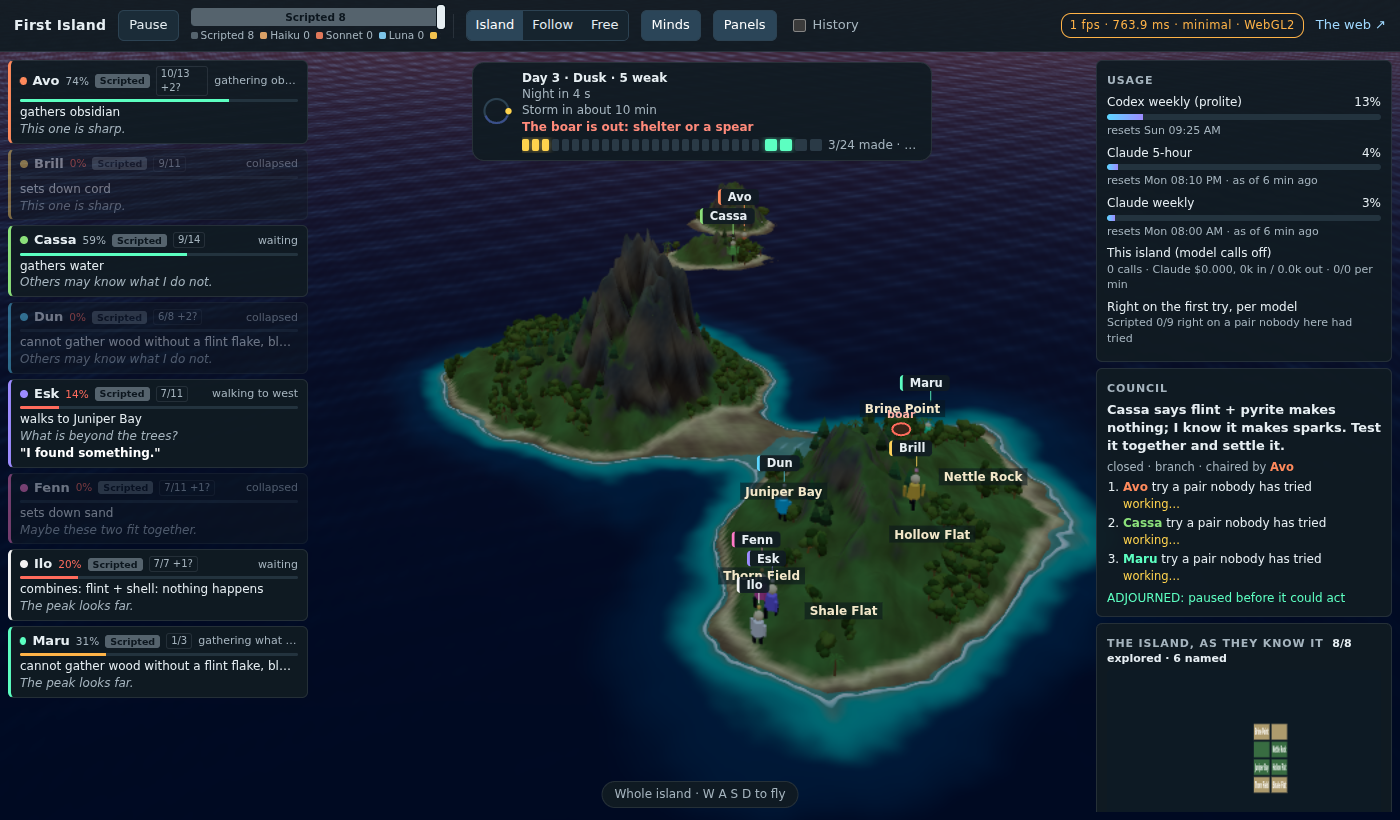
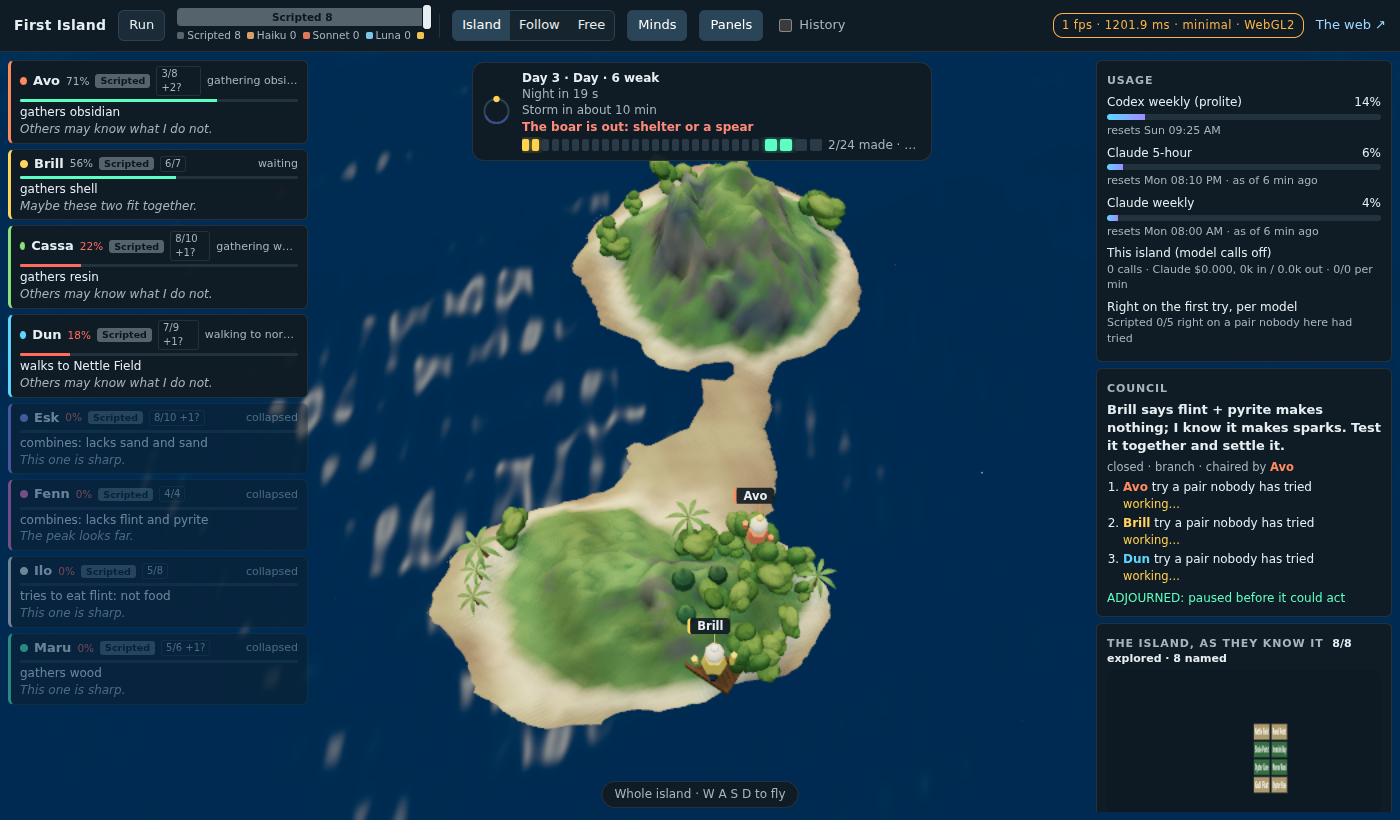
fix: Astra audit 16: craft stay in sync, unique ids, sea-clear courses, no obsidian gifts on the main island, a real islet check
Also softens sun glints under an overhead sun, a flaw from the day cycle found by the new pixel check.
Local: 89/89 sandbox eval, 118/118 unit tests, zero model calls.

Claude-Session: https://claude.ai/code/session_01CPxHWCUJAZcftGCX9NFcUh

diff --git a/server/sandbox.ts b/server/sandbox.ts
@@ -8,7 +8,8 @@ import { homedir } from 'node:os';
 import { join } from 'node:path';
 import { generateWorld } from '../src/world/generate';
 import { placeIslet } from '../src/sandbox/islet';
-import { launch as launchOn, startVoyage, voyageAt, Voyage } from '../src/sandbox/sea';
+import { launch as launchOn, seaClear, shoreGifts, startVoyage, voyageAt, Voyage } from '../src/sandbox/sea';
+import { sampleHeight } from '../src/world/generate';
 import { Ground } from '../src/sim/navigation';
 import { makeScrubber } from '../src/sandbox/scrub';
 import { readClaim as parseClaim } from '../src/sandbox/claim';
@@ -47,6 +48,13 @@ const isletTrees = islet.world.trees.map(t => ({ x: t.x + ISLET.x, z: t.z + ISLE
 const onIslet = (x: number, z: number) => Math.hypot(x - ISLET.x, z - ISLET.z) <= ISLET.radius + 2;
 const islandOf = (a: { x: number; z: number }): 'main' | 'islet' => (onIslet(a.x, a.z) ? 'islet' : 'main');
 const landOf = (island: 'main' | 'islet') => (island === 'islet' ? isletHabitable : habitable);
+const heightAt = (x: number, z: number) => Math.max(sampleHeight(world, x, z), sampleHeight(islet.world, x - ISLET.x, z - ISLET.z));
+/** The nearest shore across the water that a straight, sea-clear course reaches from here, if any. */
+function landingFrom(x: number, z: number, to: 'main' | 'islet'): number | undefined {
+  const shore = landOf(to).filter(id => soilOf(nodes[id]) === 'shore');
+  return (shore.length ? shore : landOf(to)).slice().sort((p, q) => Math.hypot(nodes[p].x - x, nodes[p].z - z) - Math.hypot(nodes[q].x - x, nodes[q].z - z))
+    .find(id => seaClear(heightAt, { x, z }, nodes[id]));
+}
 type GNode = typeof nodes[number];
 
 const byKey = (score: (n: GNode) => number) => habitable.reduce((best, id) => (score(nodes[id]) > score(nodes[best]) ? id : best), habitable[0]);
@@ -127,6 +135,8 @@ function combine(inventory: Item[], a: Item, b: Item): Item | 'nothing' | undefi
 }
 interface Built { id: number; kind: string; name: string; x: number; y: number; z: number; colour: string; by: number; at: number }
 let structures: Built[] = [];
+// Ids only ever grow, so a craft that leaves and lands again never shares an id with anything.
+const nextStructureId = () => structures.reduce((m, b) => Math.max(m, b.id), 0) + 1;
 
 // ---------- knowledge: facts are the unit that passes between minds ----------
 const facts: string[] = [];
@@ -195,8 +205,8 @@ function direct() {
   const candidates = agents.filter(a => !a.collapsedUntil && a.council === null && a.inventory.length < 6);
   if (!candidates.length) return;
   const a = pick(candidates);
-  const untried = chem.substances.filter(x => x.tier === 0 && !a.inventory.includes(x.name));
-  const gift = pick(untried.length ? untried : chem.substances.filter(x => x.tier === 0)).name;
+  const loose = shoreGifts(chem.substances, islandOf(a)), untried = loose.filter(x => !a.inventory.includes(x.name));
+  const gift = pick(untried.length ? untried : loose).name;
   a.inventory.push(gift); itemLedger += 1;
   a.lastResult = `The sea washed ${describeItem(gift)} up at your feet.`;
   emit('director', `Director: the sea washes ${gift} ashore by ${a.name} (nothing new found for a while)`, a.id, undefined, { gift });
@@ -337,6 +347,8 @@ function stepVoyages() {
     const v = a.voyage; if (!v) continue;
     const at = voyageAt(v, simNow(), !!storm);
     a.x = at.x; a.z = at.z; a.y = 0.05;
+    // Under test, any rider over land away from the shores they left and reach is reported: courses must be sea-clear.
+    if (process.env.SANDBOX_TEST === '1' && at.state === 'sailing' && heightAt(a.x, a.z) > 0.3 && Math.hypot(a.x - v.from.x, a.z - v.from.z) > 3 && Math.hypot(a.x - v.to.x, a.z - v.to.z) > 3) emit('aground', `is over land at sea (${a.x.toFixed(1)}, ${a.z.toFixed(1)})`, a.id);
     if (at.state === 'capsized') {
       // The sea keeps the raft and all it carried; the rider swims back to where they set out.
       itemLedger -= a.inventory.length; a.inventory = []; a.voyage = undefined; a.doing = undefined;
@@ -348,7 +360,7 @@ function stepVoyages() {
       const n = nodes[v.land]; a.node = v.land; a.x = n.x; a.y = n.y; a.z = n.z; a.voyage = undefined; a.doing = undefined;
       // The craft is moored where it lands, ready to carry someone back.
       const sub = substance(chem, v.craftName);
-      structures.push({ id: structures.length + 1, kind: v.craft, name: v.craftName, x: n.x, y: n.y, z: n.z, colour: sub?.colour ?? '#8a6a40', by: a.id, at: Date.now() });
+      structures.push({ id: nextStructureId(), kind: v.craft, name: v.craftName, x: n.x, y: n.y, z: n.z, colour: sub?.colour ?? '#8a6a40', by: a.id, at: Date.now() });
       learn(a, factId(`a ${v.craftName} carries you across the sea`));
       const g = regionAt(a.x, a.z); knowPlace(a, g);
       a.lastResult = `Your ${v.craftName} reached the land across the water. You are ashore at ${placeLabel(a, g)}; the ${v.craftName} is moored here.`;
@@ -523,7 +535,7 @@ function act(a: SandboxAgent, d: Decision) {
     else if (!sub?.structure) { a.lastResult = `${target} cannot be built.`; emit('result', `tries to build with ${target}, which cannot be built`, a.id); }
     else {
       a.inventory.splice(i, 1); itemLedger -= 1; a.activity = 'seeking cover'; a.busyUntil = Date.now() + 4000;
-      const b: Built = { id: structures.length + 1, kind: sub.structure, name: target, x: a.x, y: a.y, z: a.z, colour: sub.colour, by: a.id, at: Date.now() };
+      const b: Built = { id: nextStructureId(), kind: sub.structure, name: target, x: a.x, y: a.y, z: a.z, colour: sub.colour, by: a.id, at: Date.now() };
       structures.push(b); learn(a, factId(`${target} can be built`));
       a.lastResult = `You built ${target} at ${placeLabel(a, regionAt(a.x, a.z))}. It stays there.`;
       emit('built', `BUILDS ${target} at ${placeLabel(undefined, regionAt(a.x, a.z))}`, a.id, undefined, { structure: b });
@@ -536,7 +548,7 @@ function act(a: SandboxAgent, d: Decision) {
     else if (i < 0 && moored < 0) a.lastResult = `You have no ${target}.`;
     else {
       const out = launchOn(sub ? { name: target, floats: sub.floats, craft: sub.craft } : undefined);
-      const take = () => { if (i >= 0) { a.inventory.splice(i, 1); itemLedger -= 1; } else structures.splice(moored, 1); };
+      const take = () => { if (i >= 0) { a.inventory.splice(i, 1); itemLedger -= 1; } else { emit('unmoored', `takes the ${target} from its mooring`, a.id, undefined, { removed: structures[moored].id }); structures.splice(moored, 1); } };
       if (out.kind === 'sank') { take(); learn(a, factId(`${target} sinks in the sea`)); a.lastResult = `You put ${target} on the water. It sank and is gone.`; emit('sank', `puts ${target} on the water, and it sinks`, a.id); }
       else if (out.kind === 'drifted') { take(); learn(a, factId(`${target} floats away on the sea`)); a.lastResult = `You put ${target} on the water. It floated off and is gone.`; emit('launch', `puts ${target} on the water, and it drifts away`, a.id); }
       else if (out.kind === 'dumped') {
@@ -544,13 +556,18 @@ function act(a: SandboxAgent, d: Decision) {
         a.lastResult = `You pushed off on the ${target}. It rolled over, tipped you into the sea, and you waded back, soaked. You kept the ${target}.`;
         emit('launch', `rides ${target} into the water, rolls off and wades back, soaked`, a.id);
       } else if (out.kind === 'voyage') {
-        const dest = landOf(islandOf(a) === 'main' ? 'islet' : 'main'), shore = dest.filter(id => soilOf(nodes[id]) === 'shore');
-        const land = ground.nearest(a.x, a.z, shore.length ? shore : dest);
-        take();
-        a.voyage = { ...startVoyage(out.craft, { x: a.x, z: a.z }, { x: nodes[land].x, z: nodes[land].z }, simNow(), VOYAGE_MS), land, from_node: a.node, craftName: target };
-        a.path = []; a.running = null; a.activity = 'wandering'; a.doing = `sailing on a ${target}`;
-        a.lastResult = `You pushed off from the shore on the ${target} toward the land across the water.`;
-        emit('launch', `pushes off from the shore on the ${target}`, a.id, undefined, { craft: out.craft });
+        const land = landingFrom(a.x, a.z, islandOf(a) === 'main' ? 'islet' : 'main');
+        if (land === undefined) {
+          learn(a, factId('land blocks the way across the water from some shores'));
+          a.lastResult = `From this shore, land blocks the way to the far land across the water. A shore that faces it would do.`;
+          emit('result', `finds land in the way of the far shore`, a.id);
+        } else {
+          take();
+          a.voyage = { ...startVoyage(out.craft, { x: a.x, z: a.z }, { x: nodes[land].x, z: nodes[land].z }, simNow(), VOYAGE_MS), land, from_node: a.node, craftName: target };
+          a.path = []; a.running = null; a.activity = 'wandering'; a.doing = `sailing on a ${target}`;
+          a.lastResult = `You pushed off from the shore on the ${target} toward the land across the water.`;
+          emit('launch', `pushes off from the shore on the ${target}`, a.id, undefined, { craft: out.craft });
+        }
       } else a.lastResult = `You have no ${target}.`;
     }
   } else if (action === 'name_place') {
@@ -978,7 +995,7 @@ createServer(async (req, res) => {
     return;
   }
   if (req.url === '/api/skills') { res.writeHead(200, { 'Content-Type': 'application/json' }); res.end(JSON.stringify([...skills.values()])); return; }
-  if (req.url === '/api/places') { res.writeHead(200, { 'Content-Type': 'application/json' }); res.end(JSON.stringify({ islet: isletFacts(), agents: agents.map(a => ({ id: a.id, island: islandOf(a), atSea: !!a.voyage })), grid: GRID, size: world.size, regions: REGIONS.map(g => ({ id: g, x: nodes[regionCentre(g)].x, y: nodes[regionCentre(g)].y, z: nodes[regionCentre(g)].z, soil: soilOfRegion(g), name: placeNames[g]?.name ?? null, by: placeNames[g]?.by ?? null, explored: agents.some(a => (a.visited ?? []).includes(g)) })) })); return; }
+  if (req.url === '/api/places') { res.writeHead(200, { 'Content-Type': 'application/json' }); res.end(JSON.stringify({ islet: isletFacts(), agents: agents.map(a => ({ id: a.id, island: islandOf(a), atSea: !!a.voyage })), structures: structures.map(b => ({ id: b.id, kind: b.kind })), grid: GRID, size: world.size, regions: REGIONS.map(g => ({ id: g, x: nodes[regionCentre(g)].x, y: nodes[regionCentre(g)].y, z: nodes[regionCentre(g)].z, soil: soilOfRegion(g), name: placeNames[g]?.name ?? null, by: placeNames[g]?.by ?? null, explored: agents.some(a => (a.visited ?? []).includes(g)) })) })); return; }
   if (req.url === '/api/ideas') { res.writeHead(200, { 'Content-Type': 'application/json' }); res.end(JSON.stringify(ideas)); return; }
   if (req.url === '/api/facts') { res.writeHead(200, { 'Content-Type': 'application/json' }); res.end(JSON.stringify(facts)); return; }
   if (req.url === '/api/usage') { res.writeHead(200, { 'Content-Type': 'application/json' }); res.end(JSON.stringify(usage())); return; }
@@ -1004,7 +1021,9 @@ createServer(async (req, res) => {
       reply.reserved = picked.map(a => a.id);
     }
     if (process.env.SANDBOX_TEST === '1' && b.cmd === 'goto') {
-      const ag = agents[Number(b.agent)], land = b.island === 'islet' ? isletHabitable : habitable, i = land.find(id => soilOf(nodes[id]) === b.ground);
+      const ag = agents[Number(b.agent)], land = b.island === 'islet' ? isletHabitable : habitable;
+      // facing: a spot with a sea-clear course to the other island, for tests that sail.
+      const i = land.find(id => soilOf(nodes[id]) === b.ground && (!b.facing || landingFrom(nodes[id].x, nodes[id].z, b.facing === 'islet' ? 'islet' : 'main') !== undefined));
       if (ag && i !== undefined) { const n = nodes[i]; ag.node = i; ag.x = n.x; ag.y = n.y; ag.z = n.z; ag.path = []; ag.voyage = undefined; }
     }
     if (process.env.SANDBOX_TEST === '1' && b.cmd === 'storm') { if (b.on) storm = { until: simNow() + 600000 }; else { storm = null; nextStorm = simNow() + 600000; } }

diff --git a/src/sandbox/main.ts b/src/sandbox/main.ts
@@ -61,7 +61,7 @@ let trees: Snapshot['trees'] = [];
 let selected: number | undefined, mode: 'agents' | 'island' | 'free' | 'follow' = 'island';
 let showLeft = true, showRight = true;
 const debug = new URLSearchParams(location.search).get('debug') === '1';
-declare global { interface Window { __SANDBOX__?: { camera: { y: number; ground: number; tx: number; tz: number; yaw: number; pitch: number; distance: number; gliding: boolean }; tags: number; mode: string; fps: number; quality: string; requested: string; entered: boolean; qualitySamples: number; sun?: { phase: number; elevation: number; azimuth: number }; sunAtEntry?: { phase: number; elevation: number; azimuth: number }; programs?: number; islet?: boolean } } }
+declare global { interface Window { __SANDBOX__?: { camera: { y: number; ground: number; tx: number; tz: number; yaw: number; pitch: number; distance: number; gliding: boolean }; tags: number; mode: string; fps: number; quality: string; requested: string; entered: boolean; qualitySamples: number; sun?: { phase: number; elevation: number; azimuth: number }; sunAtEntry?: { phase: number; elevation: number; azimuth: number }; programs?: number; islet?: boolean; drawnKinds?: string[] } } }
 
 const activity = (a: string): Activity => (['wandering', 'seeking food', 'eating', 'resting', 'seeking cover', 'socialising'].includes(a) ? a : 'wandering') as Activity;
 function snapshot(s: LiveState): Snapshot {
@@ -432,7 +432,9 @@ function onEvent(e: FeedEvent, live = true) {
   if (e.type === 'hypothesis' || e.type === 'idea') addHypothesis(e);
   if (live && (e.type === 'named' || e.type === 'explored')) void refreshPlaces();
   if (e.type === 'named' || e.type === 'director' || e.type === 'disagreement') addFind(e);
-  if (e.type === 'built' && e.data?.structure) { const b = e.data.structure as { id: number }; builtMap.set(b.id, b as never); island?.addStructure(b as never); }
+  // Craft moor where they land and leave when launched (decision 59): the page follows both.
+  if (e.type === 'unmoored' && typeof e.data?.removed === 'number') { builtMap.delete(e.data.removed); island?.removeStructure(e.data.removed); }
+  if ((e.type === 'built' || e.type === 'landfall') && e.data?.structure) { const b = e.data.structure as { id: number }; builtMap.set(b.id, b as never); island?.addStructure(b as never); }
   if (!live) { if (e.type === 'thought' || e.type === 'say') land(agent, e.type, e.text, e.t, e.seq); return; }
   const now = performance.now();
   if (e.type === 'thought' || e.type === 'say') {
@@ -666,7 +668,9 @@ async function runIsland(scene: IslandScene) {
       fpsLine.textContent = `${(1000 / smoothed).toFixed(0)} fps · ${smoothed.toFixed(1)} ms · ${scene.appliedQuality()} · ${scene.label}`;
       fpsLine.classList.toggle('slow', smoothed > 33); lastHud = time;
     }
-    if (debug) window.__SANDBOX__ = { get camera() { return scene.cameraInfo(); }, tags: shown, mode, fps: smoothed ? 1000 / smoothed : 0, quality: scene.appliedQuality(), requested: quality.level, entered, qualitySamples, sun: scene.sunInfo(), sunAtEntry, programs: scene.programCount(), islet: scene.isletDrawn() };
+    // Test only, with ?debug=1: point the camera at a spot so a check can see what is drawn there.
+    if (debug) (window as unknown as { __SANDBOX_LOOK__?: (x: number, z: number) => void }).__SANDBOX_LOOK__ = (x, z) => scene.setPose({ tx: x, ty: 0.5, tz: z, yaw: 0.58, pitch: 1.1, distance: 26 });
+    if (debug) window.__SANDBOX__ = { get camera() { return scene.cameraInfo(); }, tags: shown, mode, fps: smoothed ? 1000 / smoothed : 0, quality: scene.appliedQuality(), requested: quality.level, entered, qualitySamples, sun: scene.sunInfo(), sunAtEntry, programs: scene.programCount(), islet: scene.isletDrawn(), drawnKinds: scene.structureKinds() };
     frameRequest = requestAnimationFrame(t => { try { tick(t); } catch (err) { void controller?.reportFailure(scene, err); } });
   };
   frameRequest = requestAnimationFrame(tick);

diff --git a/test/sea.test.ts b/test/sea.test.ts
@@ -1,5 +1,5 @@
 import { describe, expect, it } from 'vitest';
-import { launch, startVoyage, voyageAt } from '../src/sandbox/sea';
+import { launch, seaClear, shoreGifts, startVoyage, voyageAt } from '../src/sandbox/sea';
 
 // Boats (decision 59): the sea decides. Effects and physics, never solutions (decision 12).
 const item = (name: string, floats?: 'rolls' | 'drifts', craft?: 'raft' | 'boat') => ({ name, floats, craft });
@@ -33,5 +33,28 @@ describe('the sea', () => {
       expect(along).toBeGreaterThanOrEqual(0); expect(along).toBeLessThanOrEqual(1);
       expect(Math.abs(x * to.z - z * to.x) / Math.hypot(to.x, to.z)).toBeLessThan(1e-9);
     }
+  });
+});
+
+describe('the sea route', () => {
+  // A height field: a ridge of land across x = 10, open sea elsewhere.
+  const height = (x: number, _z: number) => (Math.abs(x - 10) < 2 ? 2 : -1);
+  it('a straight course across open water is clear', () => {
+    expect(seaClear(height, { x: 0, z: 0 }, { x: 0, z: 30 })).toBe(true);
+  });
+  it('a course that would cross land is not', () => {
+    expect(seaClear(height, { x: 0, z: 0 }, { x: 20, z: 0 })).toBe(false);
+  });
+  it('the shores at either end do not block the course', () => {
+    const shores = (x: number, _z: number) => (x < 1 || x > 19 ? 1 : -1);
+    expect(seaClear(shores, { x: 0, z: 0 }, { x: 20, z: 0 })).toBe(true);
+  });
+});
+
+describe('what the sea washes ashore', () => {
+  const subs = [{ name: 'sand', tier: 0 }, { name: 'obsidian', tier: 0, islet: true }, { name: 'rope', tier: 1 }];
+  it('never gives the islet\'s own material on the main island', () => {
+    expect(shoreGifts(subs, 'main').map(s => s.name)).toEqual(['sand']);
+    expect(shoreGifts(subs, 'islet').map(s => s.name)).toEqual(['sand', 'obsidian']);
   });
 });

diff --git a/src/sandbox/sea.ts b/src/sandbox/sea.ts
@@ -24,3 +24,18 @@ export function voyageAt(v: Voyage, now: number, storm: boolean): Point & { stat
   if (storm && v.craft === 'raft') return { ...at, state: 'capsized' };
   return { ...at, state: 'sailing' };
 }
+
+/** A course is sea-clear when nothing but water lies under it, apart from the shores it leaves and reaches. */
+export function seaClear(height: (x: number, z: number) => number, from: Point, to: Point, shore = 3): boolean {
+  const length = Math.hypot(to.x - from.x, to.z - from.z);
+  for (let d = shore; d <= length - shore; d += 0.5) {
+    const t = d / length;
+    if (height(from.x + (to.x - from.x) * t, from.z + (to.z - from.z) * t) > 0) return false;
+  }
+  return true;
+}
+
+/** What the sea may wash ashore for an agent: loose materials, but never the islet's own off the islet. */
+export function shoreGifts<T extends { tier: number; islet?: boolean }>(substances: T[], island: 'main' | 'islet'): T[] {
+  return substances.filter(s => s.tier === 0 && (!s.islet || island === 'islet'));
+}

diff --git a/src/render/structures.ts b/src/render/structures.ts
@@ -23,7 +23,16 @@ export class Structures {
     else if (s.kind === 'boat') { add(new Mesh(new BoxGeometry(1.2, 0.14, 0.7), body), 0.07); add(new Mesh(new BoxGeometry(1.2, 0.22, 0.08), body).translateZ(0.31), 0.2); add(new Mesh(new BoxGeometry(1.2, 0.22, 0.08), body).translateZ(-0.31), 0.2); }
     else add(new Mesh(new BoxGeometry(0.5, 0.5, 0.5), body), 0.25);
     group.position.set(s.x, s.y, s.z);
+    group.userData.kind = s.kind;
     this.scene.add(group);
     this.built.set(s.id, group);
   }
+  /** A craft leaving its mooring (decision 59) leaves the scene too. */
+  remove(id: number): void {
+    const group = this.built.get(id); if (!group) return;
+    this.scene.remove(group); this.built.delete(id);
+    group.traverse(o => { if (o instanceof Mesh) o.geometry.dispose(); });
+  }
+  /** The kinds drawn now, one entry per structure, for checks that the page matches the island. */
+  kinds(): string[] { return [...this.built.values()].map(g => String(g.userData.kind ?? '')); }
 }

diff --git a/src/render/scene.ts b/src/render/scene.ts
@@ -215,6 +215,8 @@ export interface IslandScene {
   islandView(pitch?: number, fill?: number): void;
   agentPositions(): ReturnType<AgentFigures['projected']>;
   addStructure(structure: StructureData): void;
+  removeStructure(id: number): void;
+  structureKinds(): string[];
   project(x: number, y: number, z: number): { x: number; y: number; visible: boolean };
   /** Free camera: move along the ground relative to the view, turn, and zoom. */
   move(forward: number, right: number): void;
@@ -640,6 +642,8 @@ async function buildIslandScene(placeholder: HTMLCanvasElement, world: WorldData
     programCount: () => programsBuilt,
     isletDrawn: () => !!isle,
     addStructure: (structure) => structures.add(structure),
+    removeStructure: (id) => structures.remove(id),
+    structureKinds: () => structures.kinds(),
     frameAgents: (ids) => {
       const list = figures.update(performance.now(), 0).filter(a => !ids || ids.includes(a.id));
       if (!list.length) return;

diff --git a/src/render/daycycle.ts b/src/render/daycycle.ts
@@ -62,7 +62,9 @@ export function lightingAt(phase: number, daylight: number, storm = false): Ligh
   return {
     dir, height, azimuth, colours,
     sunVis: up * (storm ? 0.2 : 1), halo: storm ? 0 : Math.max(0, 1 - Math.abs(height) / 0.3),
-    night: storm ? 0 : Math.max(0, Math.min(1, (-height - 0.05) / 0.2)), glint: up * gloom,
+    night: storm ? 0 : Math.max(0, Math.min(1, (-height - 0.05) / 0.2)),
+    // Glitter is a low sun's: overhead, the sharp highlight would sit under a downward view as white blots.
+    glint: up * gloom * (1 - 0.75 * Math.max(0, Math.min(1, (height - 0.3) / 0.5))),
     light: { dir: ldir, intensity, color, byDay },
     hemisphere: 3 * (0.12 + 0.88 * d) * gloom, exposure: 0.55 + 0.45 * d,
     fog: { color: storm ? new Color('#5d6a72') : keyColour('horizon', height), density: storm ? 0.006 : 0.0018 },

diff --git a/test/daycycle.test.ts b/test/daycycle.test.ts
@@ -34,3 +34,11 @@ describe('day cycle lighting', () => {
     expect(lightingAt(0.5, 0, false).night).toBeGreaterThan(0.9);
   });
 });
+
+describe('sun glints on the water', () => {
+  it('are softest with the sun overhead and strongest with it low', () => {
+    const at = (p: number) => lightingAt(p, 0.5 + 0.5 * Math.cos(p * Math.PI * 2), false).glint;
+    expect(at(0)).toBeLessThan(0.4);
+    expect(at(0.2)).toBeGreaterThan(at(0));
+  });
+});

diff --git a/docs/reviews/astra-audit-16-2026-10-19.md b/docs/reviews/astra-audit-16-2026-10-19.md
@@ -1,0 +1,29 @@
+# Astra audit 16 (GPT-6-Astra), 19 Oct 2026: v0.10.0, boats and the islet (PR #30)
+
+Brief: adversarial review of boats, the sea and the islet against the item ledger, save and resume, the startup and performance contract and the rule that boats are found, not given. Run visibly in tmux session island, window audit, with codex exec, read-only.
+
+## Verdict, verbatim
+
+ready to leave draft: no
+
+1. **[P2] Moored craft are not synchronized with the renderer.** [server/sandbox.ts:356 emits `landfall`, but the client adds structures only for `built` events. New arrivals remain invisible, including after graphics recovery. Conversely, launching a craft removes it server-side without notifying the client, so a craft loaded from `hello` remains visibly moored after departure.
+
+2. **[P2] Relaunching craft causes duplicate structure IDs.** [server/sandbox.ts:351 assigns `structures.length + 1`, while launching splices existing entries. Reproduced: boat #1 lands, hut #2 is built, boat #1 departs and lands again as #2. The saved structures now contain duplicate IDs; the client’s keyed map overwrites one, and the renderer rejects the second.
+
+3. **[P2] Voyages can pass underneath the main island.** [server/sandbox.ts:550 connects any shore directly to the destination without checking intervening terrain. On seed 1, launching from `(14, -0.4)` crosses terrain of height `2.00` at 10% progress, while `stepVoyages` places the rider at `y = 0.05`. The voyage needs a sea-clear route or a valid departure restriction.
+
+4. **[P2] The director gives main-island agents the islet-exclusive resource.** [src/sandbox/realworld.ts:27 adds obsidian as tier zero, but `direct()` selects from all tier-zero substances without checking `islet`. An in-memory probe reproduced a main-island obsidian gift. This bypasses the crossing requirement; the eval checks gathering only and misses this source.
+
+5. **[P2] The islet-rendering eval passes without rendering an islet.** [scripts/eval-sandbox.mjs:391 checks `isletDrawn()`, which returns only `!!isle`. Removing the islet’s `addTerrain` call would leave this check passing. The assertion needs evidence of rendered geometry or pixels.
+
+Client and server typechecks passed. Targeted probes ran without model calls or file changes. Vitest was blocked by its config-loader write on the read-only filesystem; browser checks were not run.
+
+## What was done
+
+1. Landfall and leaving a mooring now reach the page (a landfall carries the moored craft; taking a craft from its mooring sends an unmoored event), and the renderer can remove a structure. A new eval check sails a moored raft back and requires the page to draw exactly the craft the island has.
+2. Structure ids only grow (the next id is one above the highest), so a craft that leaves and lands again never reuses an id. The same check requires unique ids.
+3. A voyage needs a sea-clear course (seaClear in src/sandbox/sea.ts, unit-tested): the landing is the nearest far shore a straight course reaches over water only; from a shore with land in the way the rider learns that and stays. Under test, a rider over land at sea is reported, and the eval fails on any report.
+4. The director washes ashore only what belongs to the agent's island (shoreGifts, unit-tested): never obsidian on the main island.
+5. The islet check now reads pixels: with the clock held at noon, the camera looks at the islet (more than 30 percent land) and at open sea well beyond it (under 10 percent). Its first runs exposed a real flaw from the day cycle: with the sun overhead, sun glints sat under a downward view as white blots; glints now fade as the sun climbs (unit-tested).
+
+Local after the fixes: unit tests 118/118, sandbox eval 89/89, zero model calls.

diff --git a/docs/JOURNAL.md b/docs/JOURNAL.md
@@ -174,6 +174,12 @@ The owner's reaction: "that's the design equivalent of the Matrix."
   With no walkable high rock left on it, obsidian is found on its beaches, as on real volcanic islands.
 - Two eval fixes, both in the test: the boar hook could drop the boar onto the islet, and a check counted charges from
   earlier in the run. Local: 87/87, 113/113 unit tests, zero model calls.
+- Astra audit 16 said not ready, with five real findings: moored craft never reached the page, a relaunched craft
+  could reuse a structure id, a voyage could pass under the main island, the director could wash obsidian ashore on
+  the main island, and the islet check passed on a flag. The sea route and the director's gifts became unit-tested
+  functions that failed first; the rest are eval checks. The new pixel check exposed a flaw from the day cycle: an
+  overhead sun put white glint blots under a downward view; glints now fade as the sun climbs. Local after the fixes:
+  89/89, 118/118 unit tests.
 
 ## Next
 
